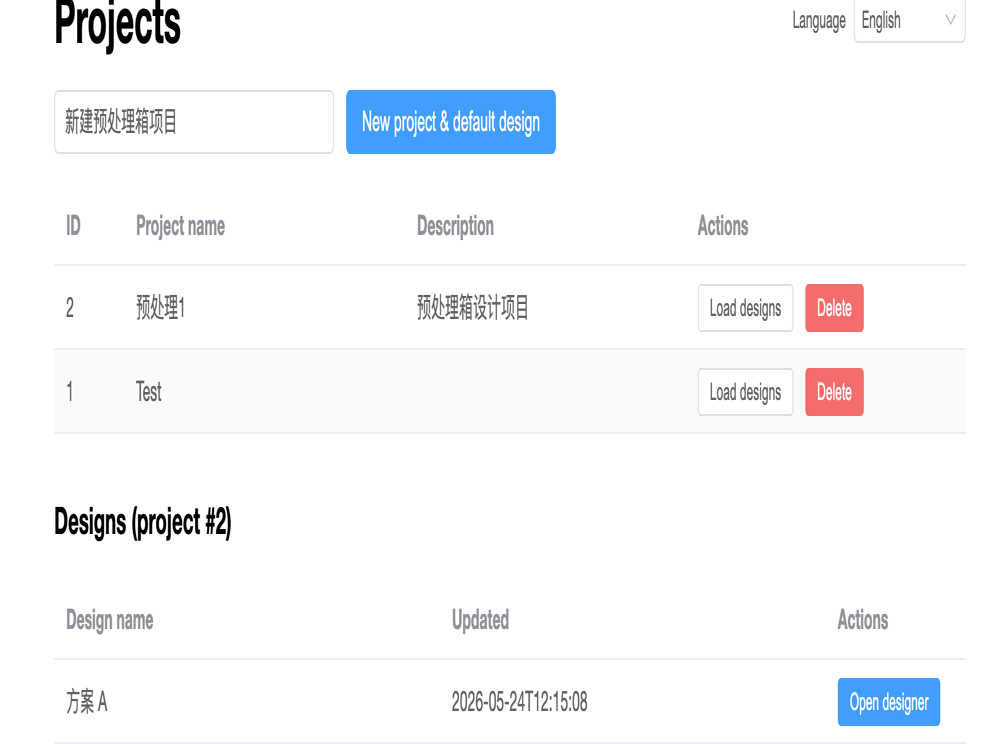
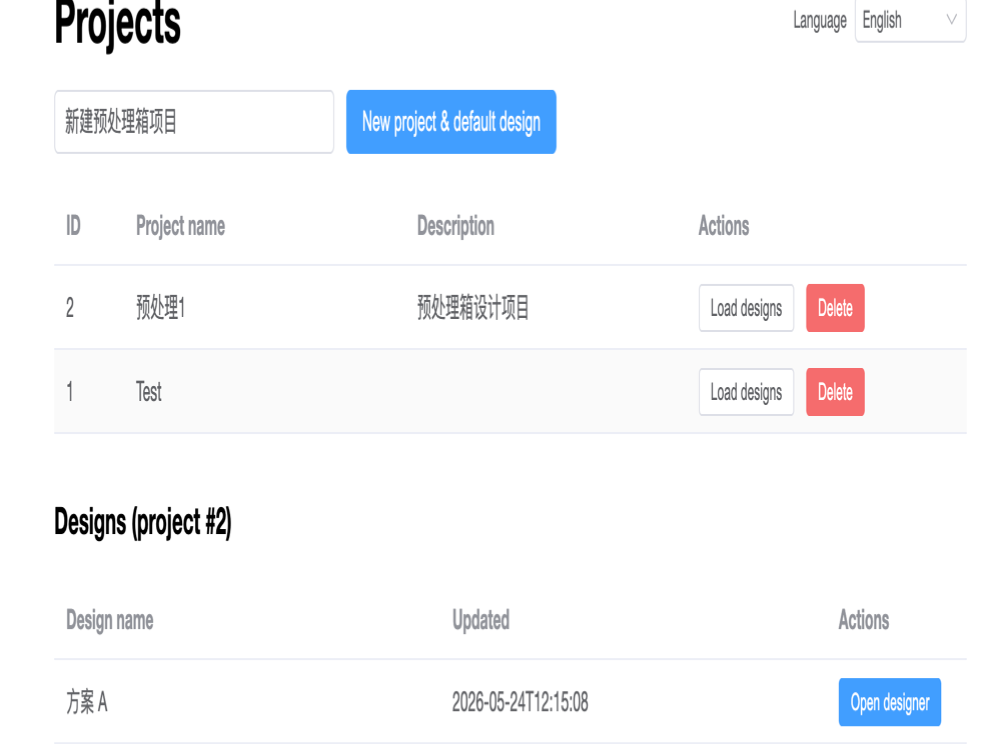
docs: fix README screenshot aspect ratio and display size
Resize images proportionally; use per-image widths (landscape 860px,
designer 520px) centered with preserved aspect ratio.

diff --git a/README.md b/README.md
@@ -27,15 +27,29 @@ Typical applications:
 
 #### Project & design management
 
-<img src="images/img1.png" alt="Projects dashboard" width="920" />
+<p align="center">
+  <img
+    src="images/img1.png"
+    alt="Projects dashboard"
+    width="860"
+    style="max-width: 100%; height: auto; border-radius: 8px; border: 1px solid #e4e7ed;"
+  />
+</p>
 
-Create projects, manage multiple design revisions, and open the designer.
+<p align="center"><sub>Create projects, manage multiple design revisions, and open the designer.</sub></p>
 
 #### Interactive P&ID designer with flow demo
 
-<img src="images/img.png" alt="Designer canvas" width="920" />
+<p align="center">
+  <img
+    src="images/img.png"
+    alt="Designer canvas"
+    width="520"
+    style="max-width: 100%; height: auto; border-radius: 8px; border: 1px solid #e4e7ed;"
+  />
+</p>
 
-Drag-and-drop component library, pipe connections, **flow animation**, runtime controls (e.g. 3-way valve path, flow regulator opening), collapsible side panels, bilingual UI.
+<p align="center"><sub>Drag-and-drop component library, pipe connections, <strong>flow animation</strong>, runtime controls (3-way valve, flow regulator), collapsible panels, bilingual UI.</sub></p>
 
 ### Key capabilities
 
@@ -176,15 +190,29 @@ MIT
 
 #### 项目与方案管理
 
-<img src="images/img1.png" alt="项目管理" width="920" />
+<p align="center">
+  <img
+    src="images/img1.png"
+    alt="项目管理"
+    width="860"
+    style="max-width: 100%; height: auto; border-radius: 8px; border: 1px solid #e4e7ed;"
+  />
+</p>
 
-新建项目、管理多套方案、进入设计器。
+<p align="center"><sub>新建项目、管理多套方案、进入设计器。</sub></p>
 
 #### P&ID 设计器与流动演示
 
-<img src="images/img.png" alt="设计器画布" width="920" />
+<p align="center">
+  <img
+    src="images/img.png"
+    alt="设计器画布"
+    width="520"
+    style="max-width: 100%; height: auto; border-radius: 8px; border: 1px solid #e4e7ed;"
+  />
+</p>
 
-组件库拖放、管线连接、**流动演示**、三通阀流向指针、流速调节、侧栏折叠、中英文界面。
+<p align="center"><sub>组件库拖放、管线连接、<strong>流动演示</strong>、三通阀流向指针、流速调节、侧栏折叠、中英文界面。</sub></p>
 
 ### 核心功能
 
